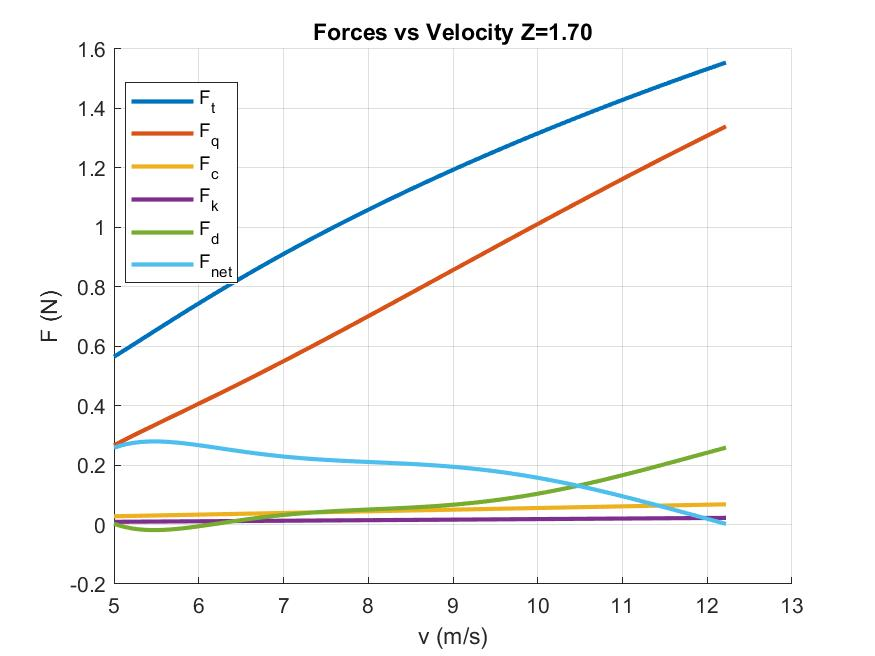
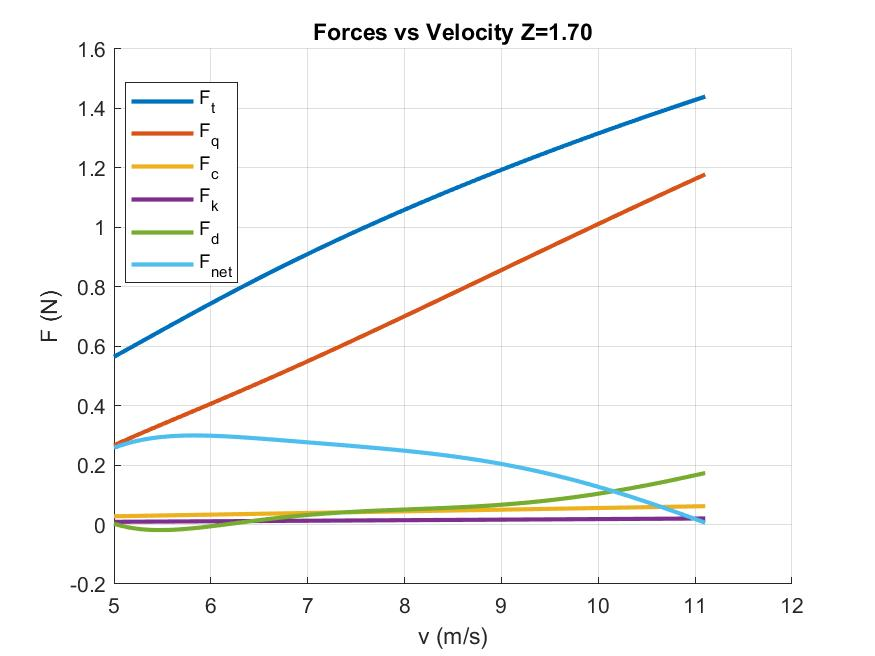
Fixed Drag Dimensions

diff --git a/Vehicle.m b/Vehicle.m
@@ -45,7 +45,7 @@ classdef Vehicle
 			F_q = self.mul_q*T_q;
 			F_c = self.mul_c*w_c;
 			F_k = self.mul_k*w_k;
-			F_d = self.F_d(v_t);
+			F_d = self.F_d(v_t)';
 			F_net = F_t-F_q-F_c-F_k-F_d;
 			a = F_net*self.mul_a;
 		end
